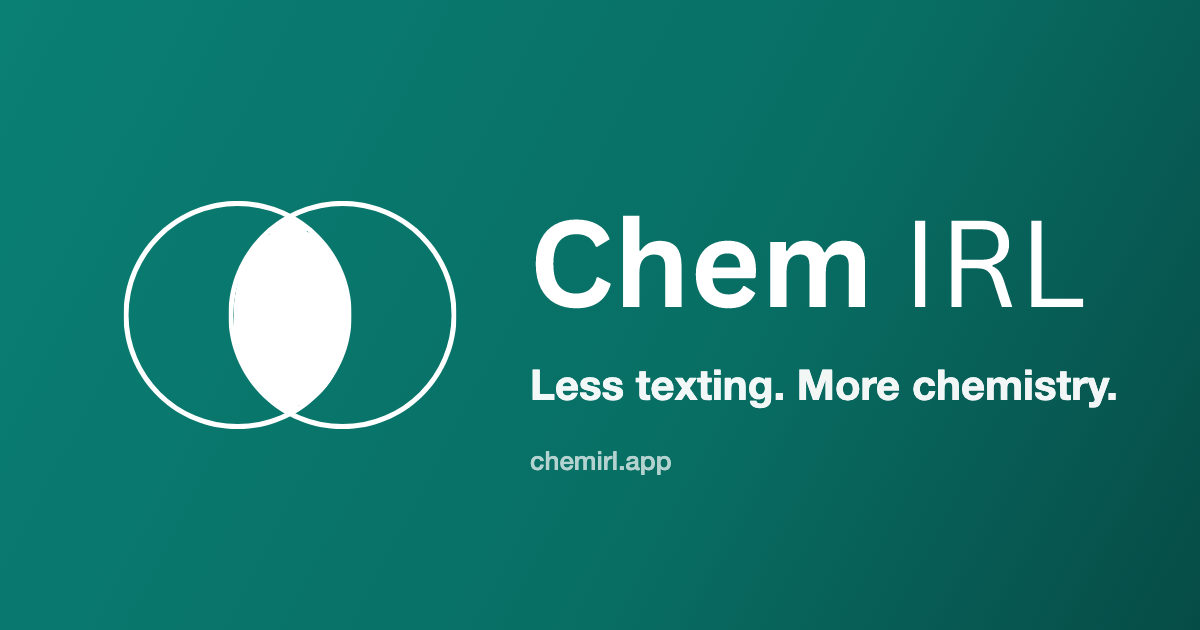
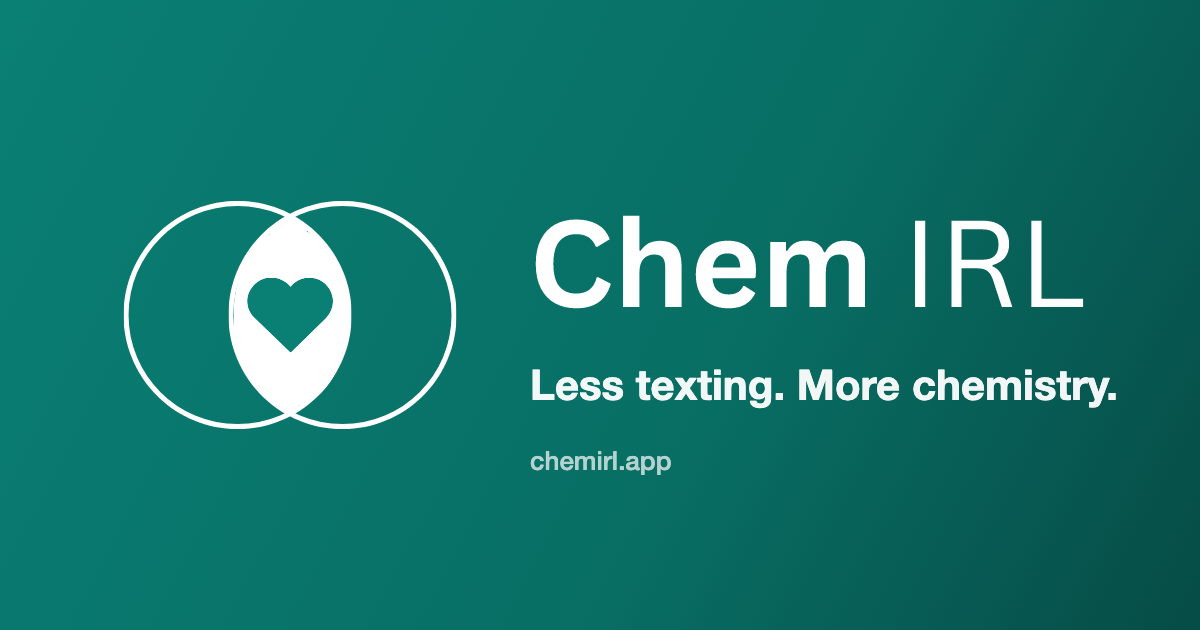
fix(brand): make OG-card heart visible on the dark social card
The single-colour aqua mark is recoloured white for the dark OG gradient,
which also whitened the heart knockout so it merged into the white vesica
and vanished. Recolour the heart to aqua instead, so it reads against the
white vesica — inverting the light-background treatment (teal vesica /
white heart → white vesica / aqua heart). Localised to buildOpenGraphImage;
only web/src/app/opengraph-image.png is regenerated.

Changed region(s): [[0.185, 0.4222, 0.2775, 0.573]]

diff --git a/scripts/rasterize-brand.ts b/scripts/rasterize-brand.ts
@@ -196,8 +196,9 @@ async function buildOpenGraphImage(): Promise<void> {
   const ivy = Number(iconVb[2]);
   const ivh = Number(iconVb[4]);
   // Icon viewBox is not 0 0-origin; compute a transform that lands it on the
-  // card. Single-color aqua mark is invisible on the dark aqua gradient → knock
-  // its aqua fills/strokes white (the #ffffff heart knockout stays white).
+  // card. The single-color aqua mark is invisible on the dark aqua gradient, so
+  // knock its aqua fills/strokes white; recolor the heart knockout to aqua so it
+  // stays visible against the now-white vesica (inverts the light-bg treatment).
   const iconScale = 360 / ivh;
   const iconSvgRaw = iconRawSvg
     .replace(/<\?xml[^>]*>\s*/, '')
@@ -206,8 +207,9 @@ async function buildOpenGraphImage(): Promise<void> {
       `<g transform="translate(${(110 - ivx * iconScale).toFixed(2)} ${(135 - ivy * iconScale).toFixed(2)}) scale(${iconScale.toFixed(5)})">`,
     )
     .replace(/<\/svg>\s*$/, '</g>')
-    .replace(/fill="#0a7f74"/gi, 'fill="#FFFFFF"')
-    .replace(/stroke="#0a7f74"/gi, 'stroke="#FFFFFF"');
+    .replace(/fill="#ffffff"/g, 'fill="#0A7F74"')
+    .replace(/fill="#0a7f74"/g, 'fill="#FFFFFF"')
+    .replace(/stroke="#0a7f74"/g, 'stroke="#FFFFFF"');
   const wordmarkSvg = readFileSync(brand('logo-wordmark.svg'), 'utf8');
   const wmViewBox = wordmarkSvg.match(/viewBox="0 0 ([\d.]+) ([\d.]+)"/);
   if (!wmViewBox) throw new Error('wordmark viewBox missing');
